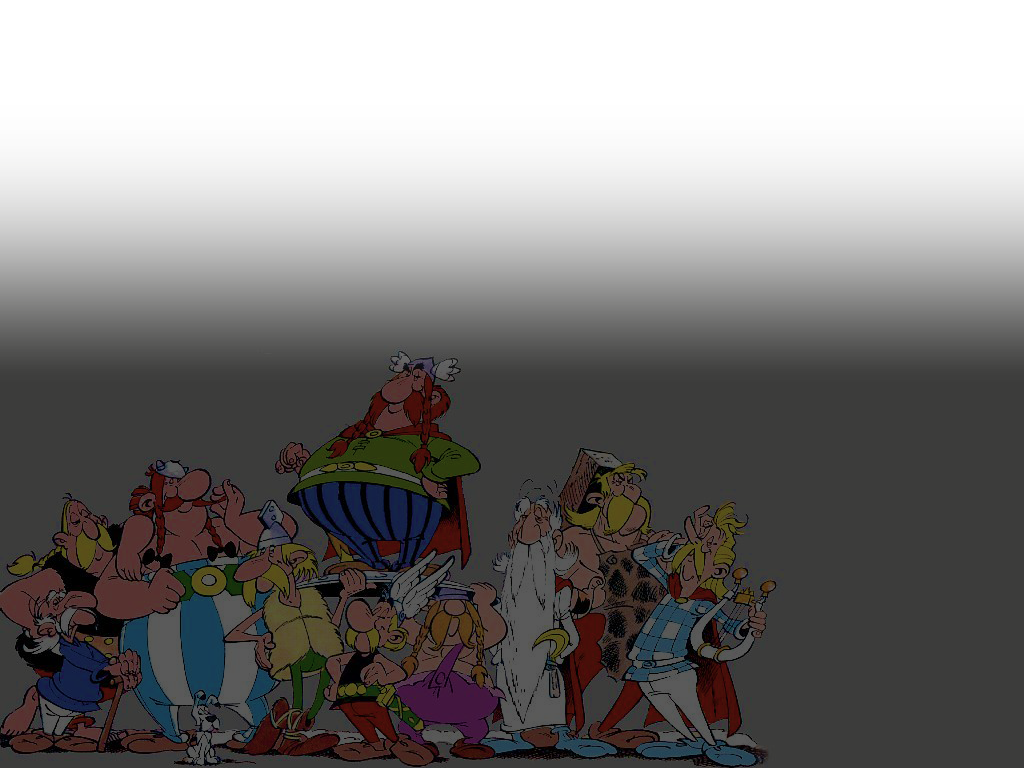
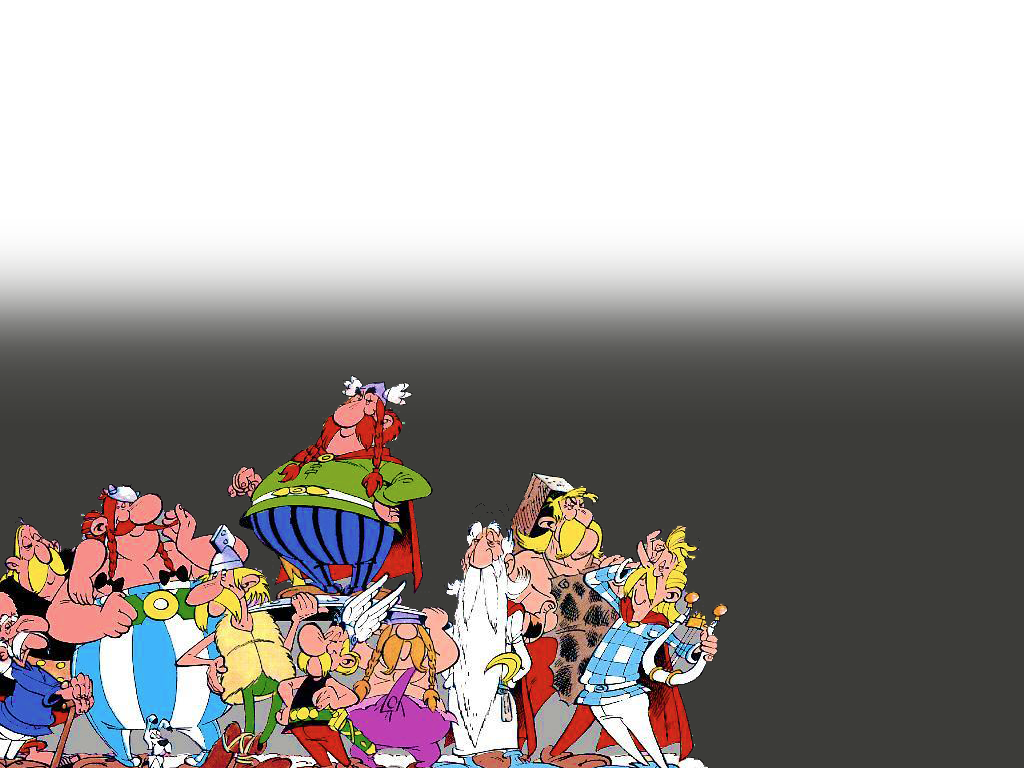
picture

diff --git a/index.html b/index.html
@@ -169,7 +169,7 @@
 						</ul>
 					</section>
 					
-					<section data-background="img/equipe.png">
+					<section data-background="img/equipe2.png" id="equipe2">
 						<h1> Equipe</h1>
 					</section>
 
@@ -178,7 +178,7 @@
 						<ul>
 							<li>Entre 3 et 9 personnes</li>
 							<li>Pluridisciplinaire et à toutes les compétences pour réaliser son projet</li>
-    						<li>Auto-organisé (décision prise ensemble)</li>
+    						<li>Auto-organisé et autonome</li>
 						</ul>
 					</section>
 				</section>
@@ -255,9 +255,17 @@
 
 				<section>
 					<section>
-						<h1>Scrum au quotidien</h1>
+						<h1>Les cérémonies</h1>
 					</section>
-					
+					<section>
+						<h1>Sprint Planning <br> Meeting</h1>
+						<ul>
+							<li>Inférieur à 8 heures</li>
+							<li>Définir le sprint et son but</li>
+							<li>Découper et estimer les différentes stories</li>
+						</ul>
+					</section>
+
 					<section data-background="img/daily.jpg" >
 						<h1>Daily</h1>
 					</section>
@@ -271,20 +279,12 @@
 						</ul>
 					</section>
 					<section>
-						<h1>Sprint Planning <br> Meeting</h1>
-						<ul>
-							<li>Inférieur à 8 heures</li>
-							<li>Définir le sprint et son but</li>
-							<li>Découper et estimer les différentes stories</li>
-						</ul>
-					</section>
-					<section>
 						<h1>Revue de Sprint</h1>
 						<ul>
-							<li>Démo</li>
-							<li>Max 4 heures</li>
-							<li>Parties prenantes inclues</li>
+							<li>Présentation des User Stories terminées</li>
+							<li>Le client est invité à participer</li>
 							<li>Les taches partiellements finis ne sont pas présentés</li>
+							<li>Valider par le Product Owner</li>
 						</ul>
 					</section>
 					<section>
